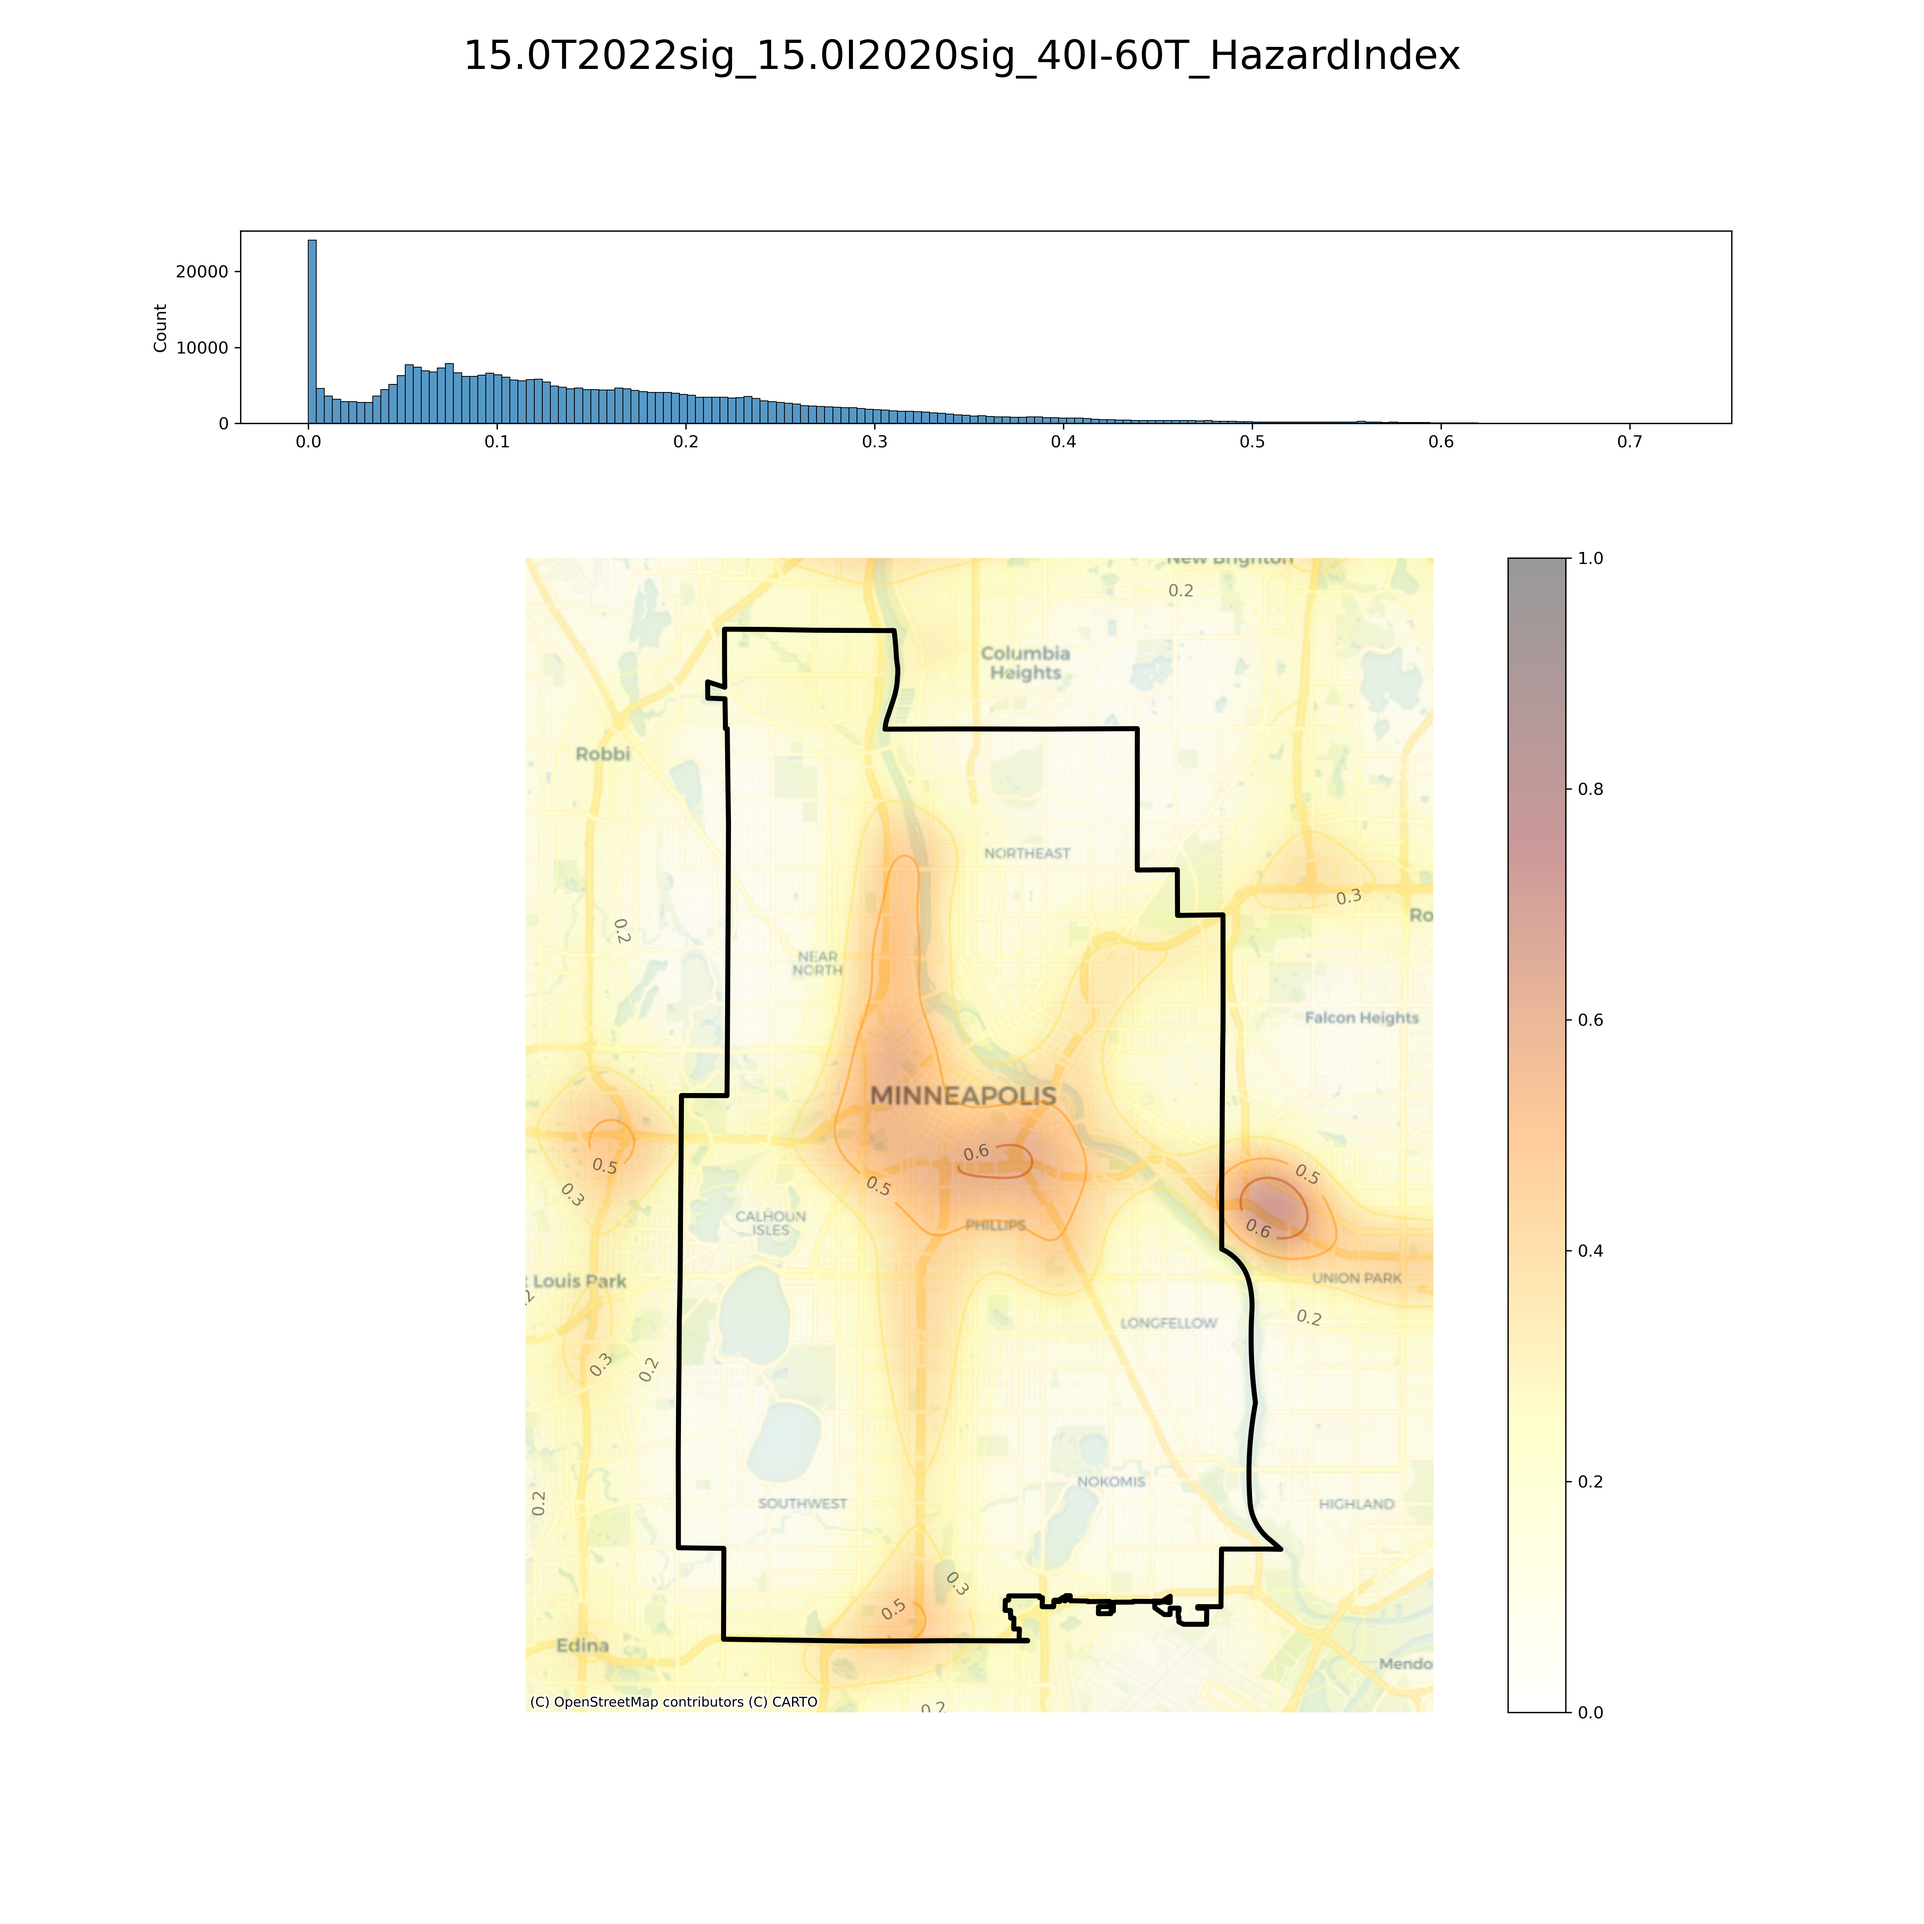
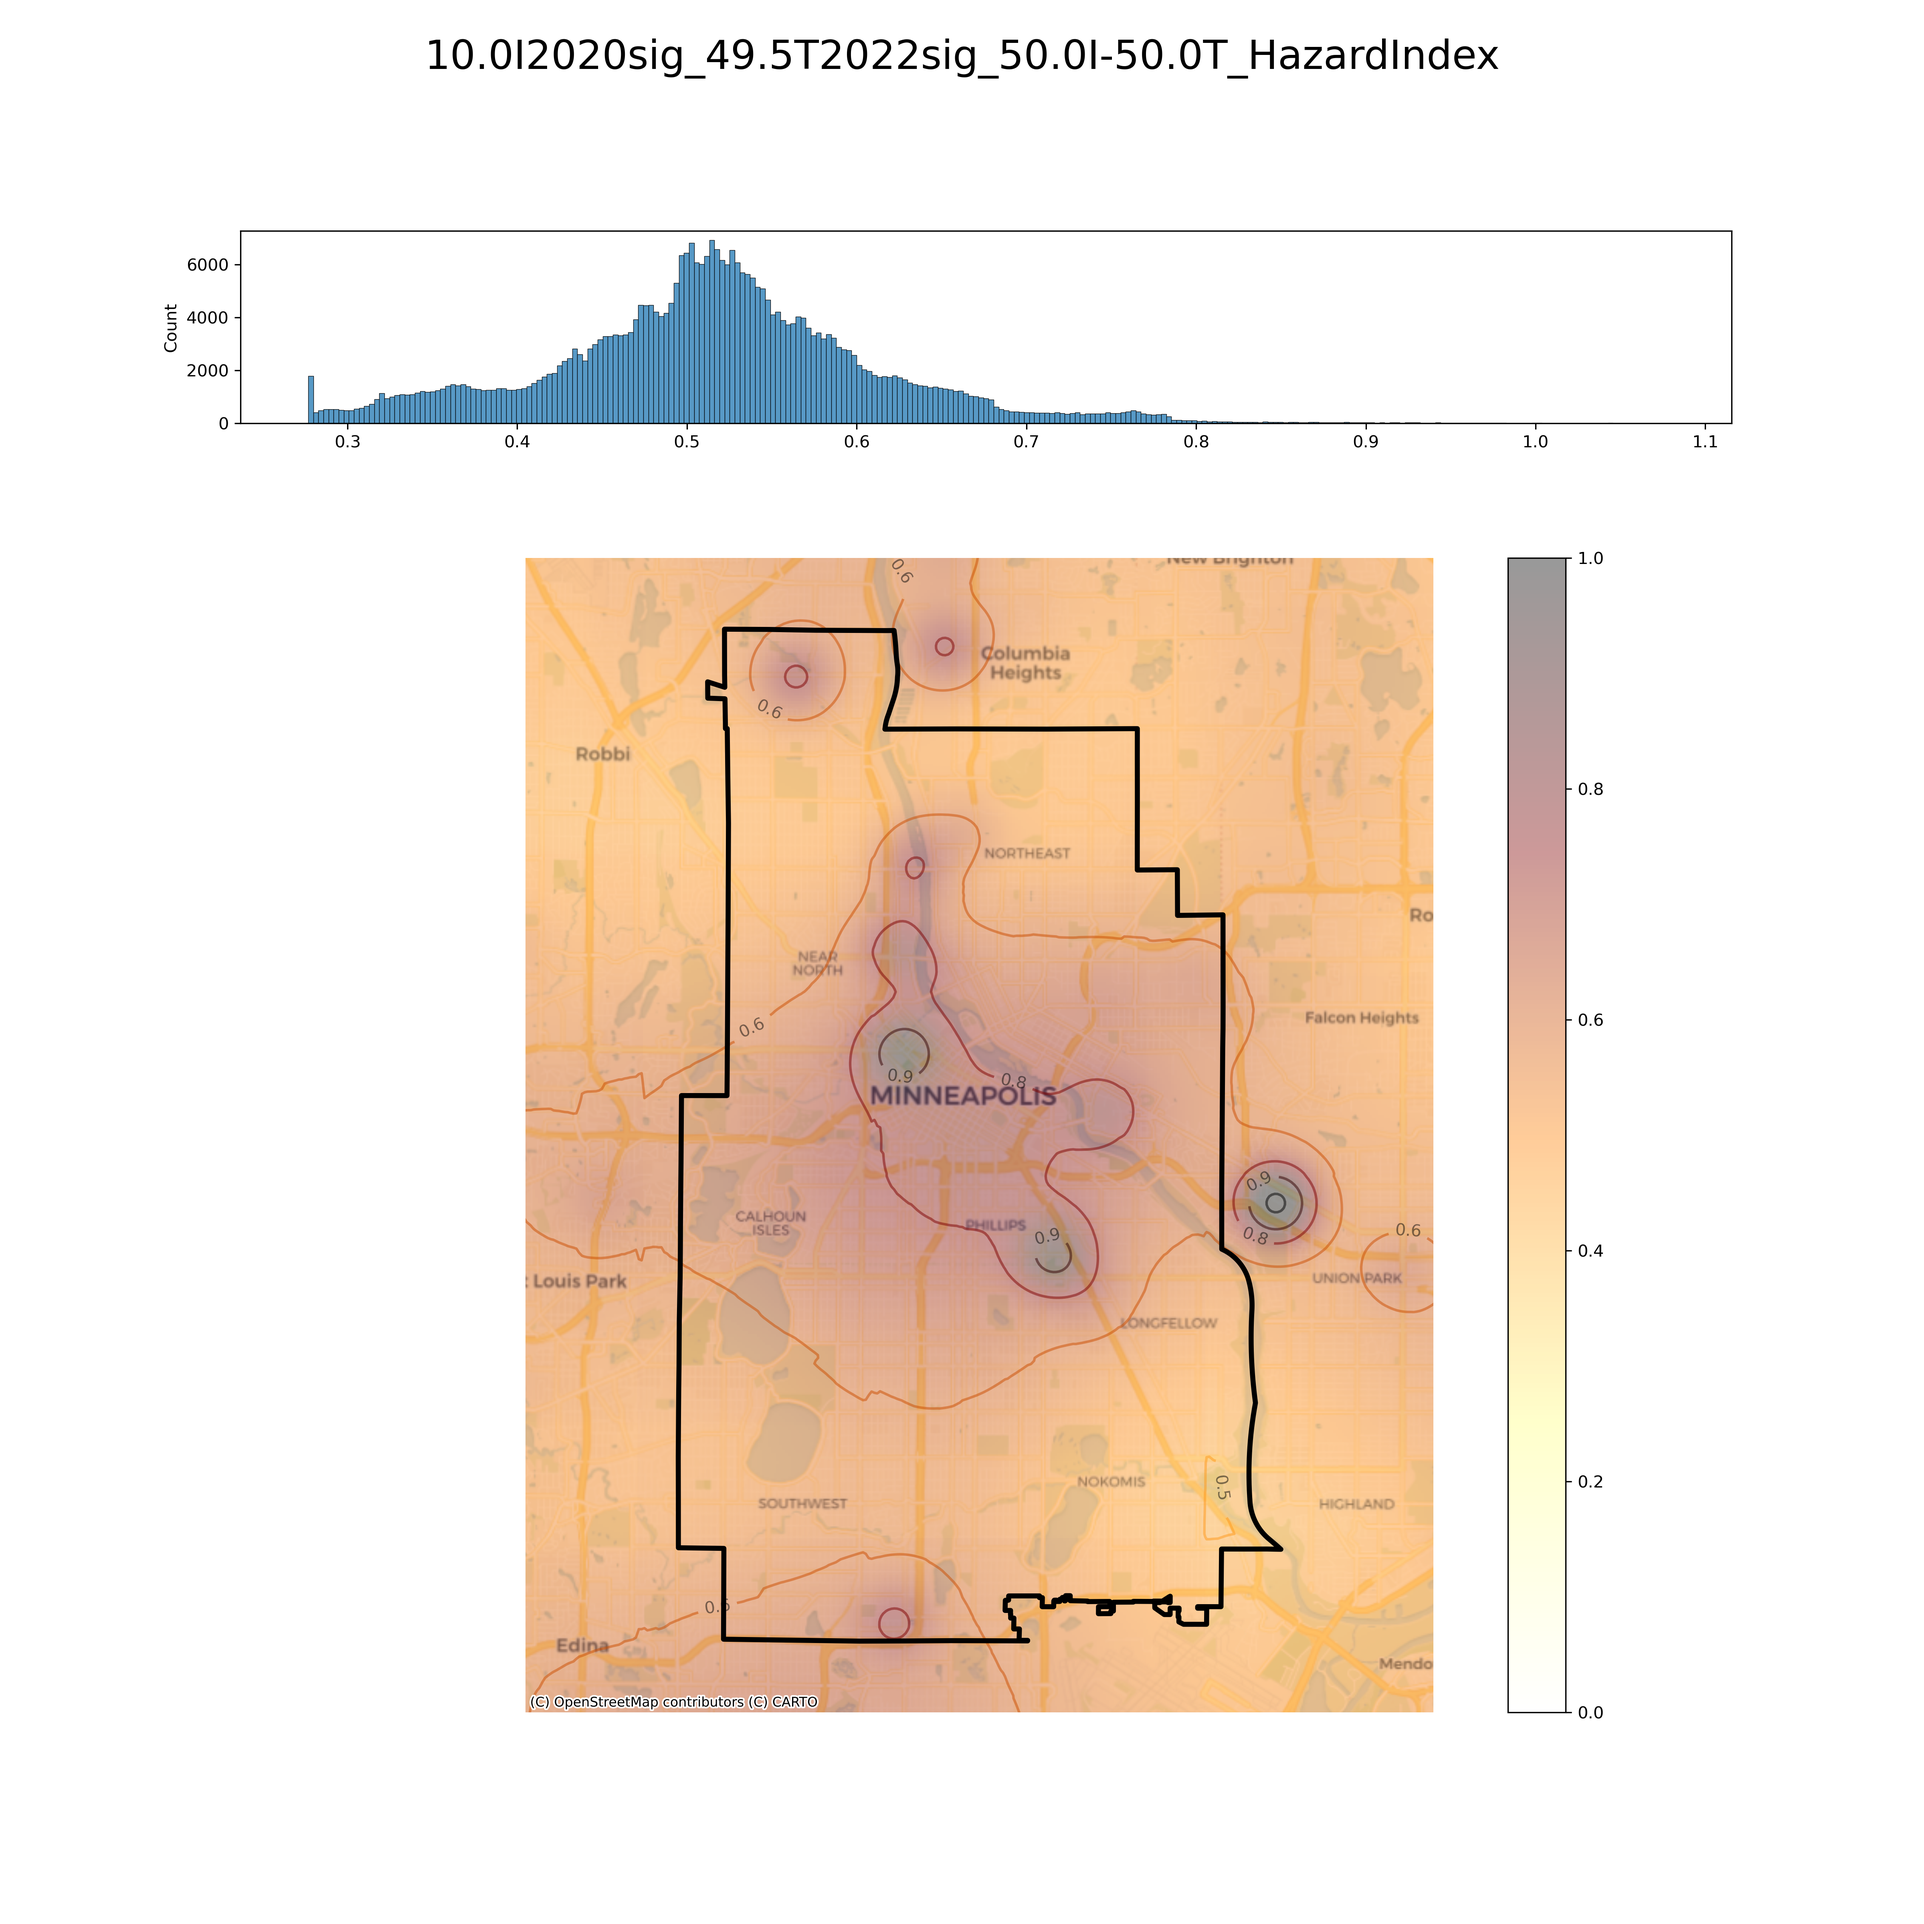
Updated Hazard Index in Projects
Ran more simulations last night

diff --git a/pages/projects.md b/pages/projects.md
@@ -54,6 +54,11 @@ It is understood that some parts of Minneapolis experience a greater burden of e
 <img src="../figs/Purple Air Interpolation.png" alt="Purple Air Interpolation.png" class="responsive" width = 600/>
 </center>
 
+<center>
+<h3> Residuals from Air Quality Hazard Index and Normalized PurpleAir Interpolation</h3>
+<img src="../figs/ExampleResiduals.png" alt="ExampleResiduals.png" class="responsive" width = 600/>
+</center>
+
 <h3><b> Data Sources </b></h3>
 
 <h4> <a href="https://files.pca.state.mn.us/pub/file_requests/datasets/Air/">MPCA's Permitted Industrial Emissions</a> </h4>
